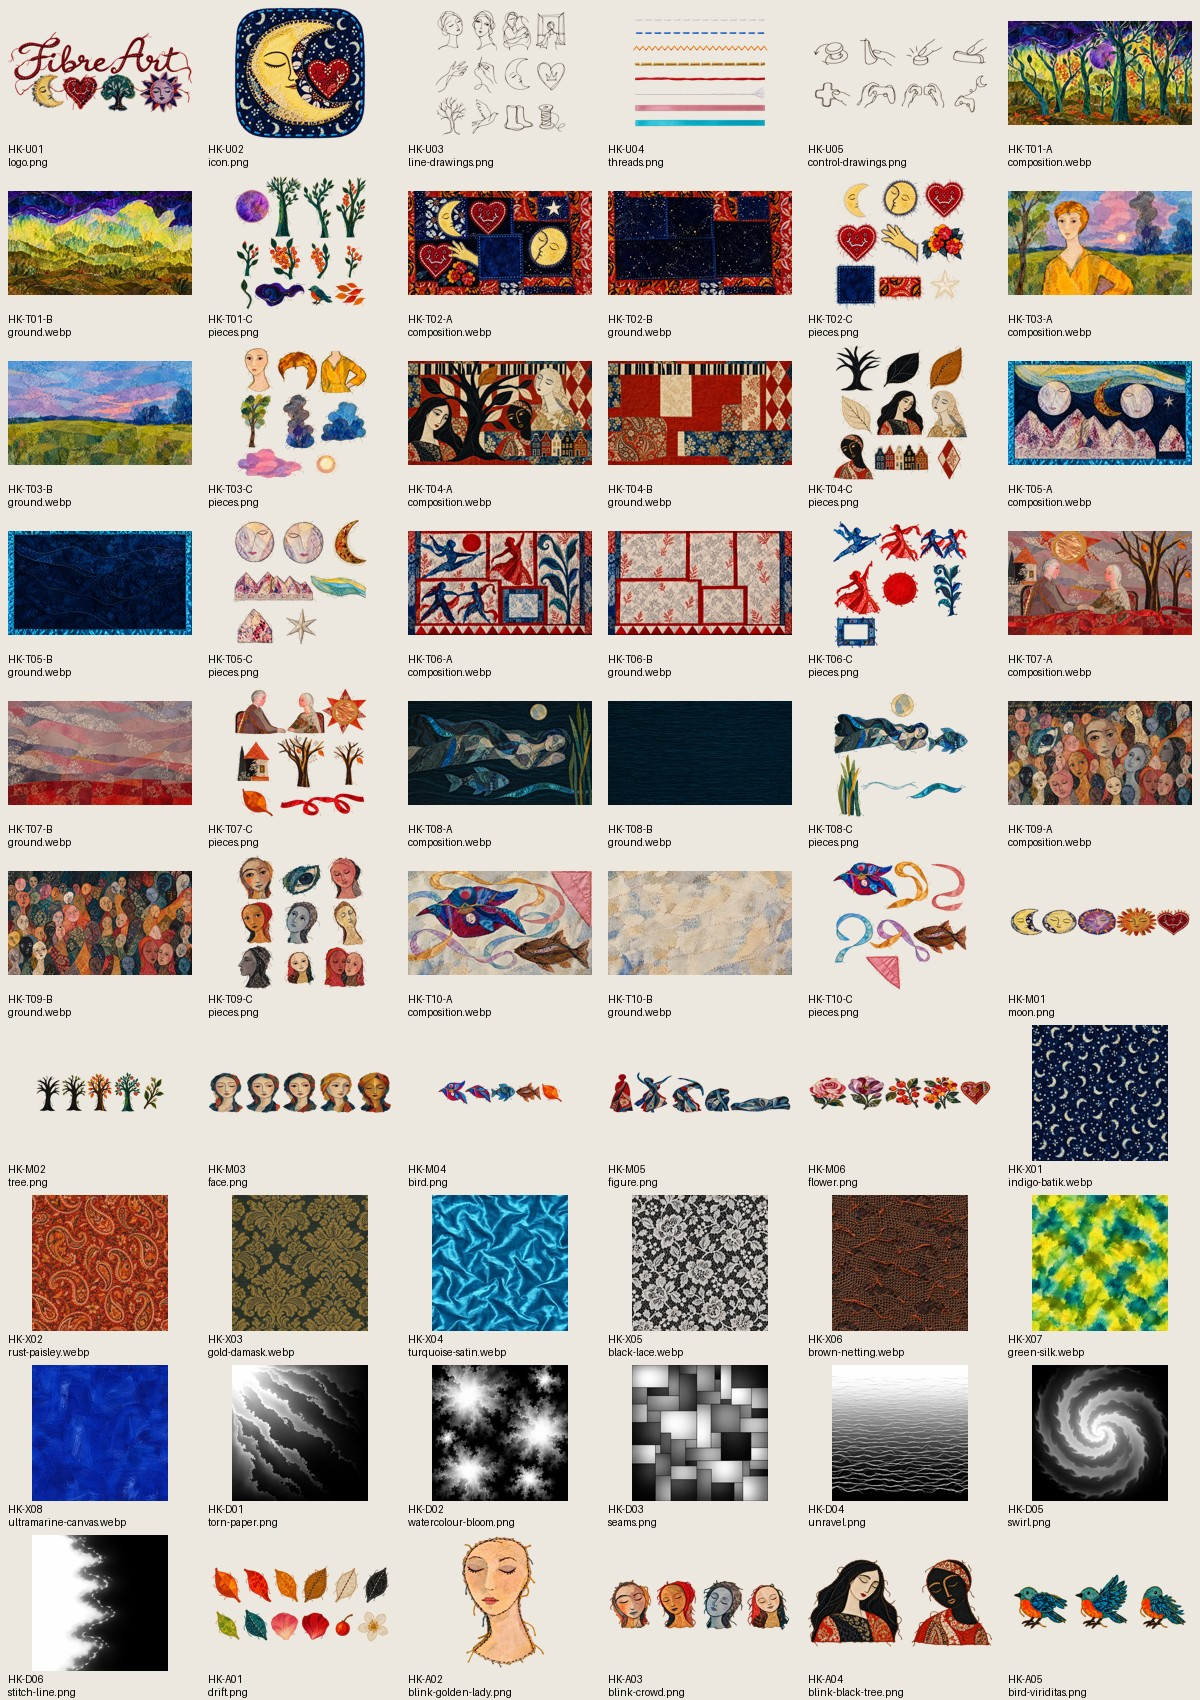
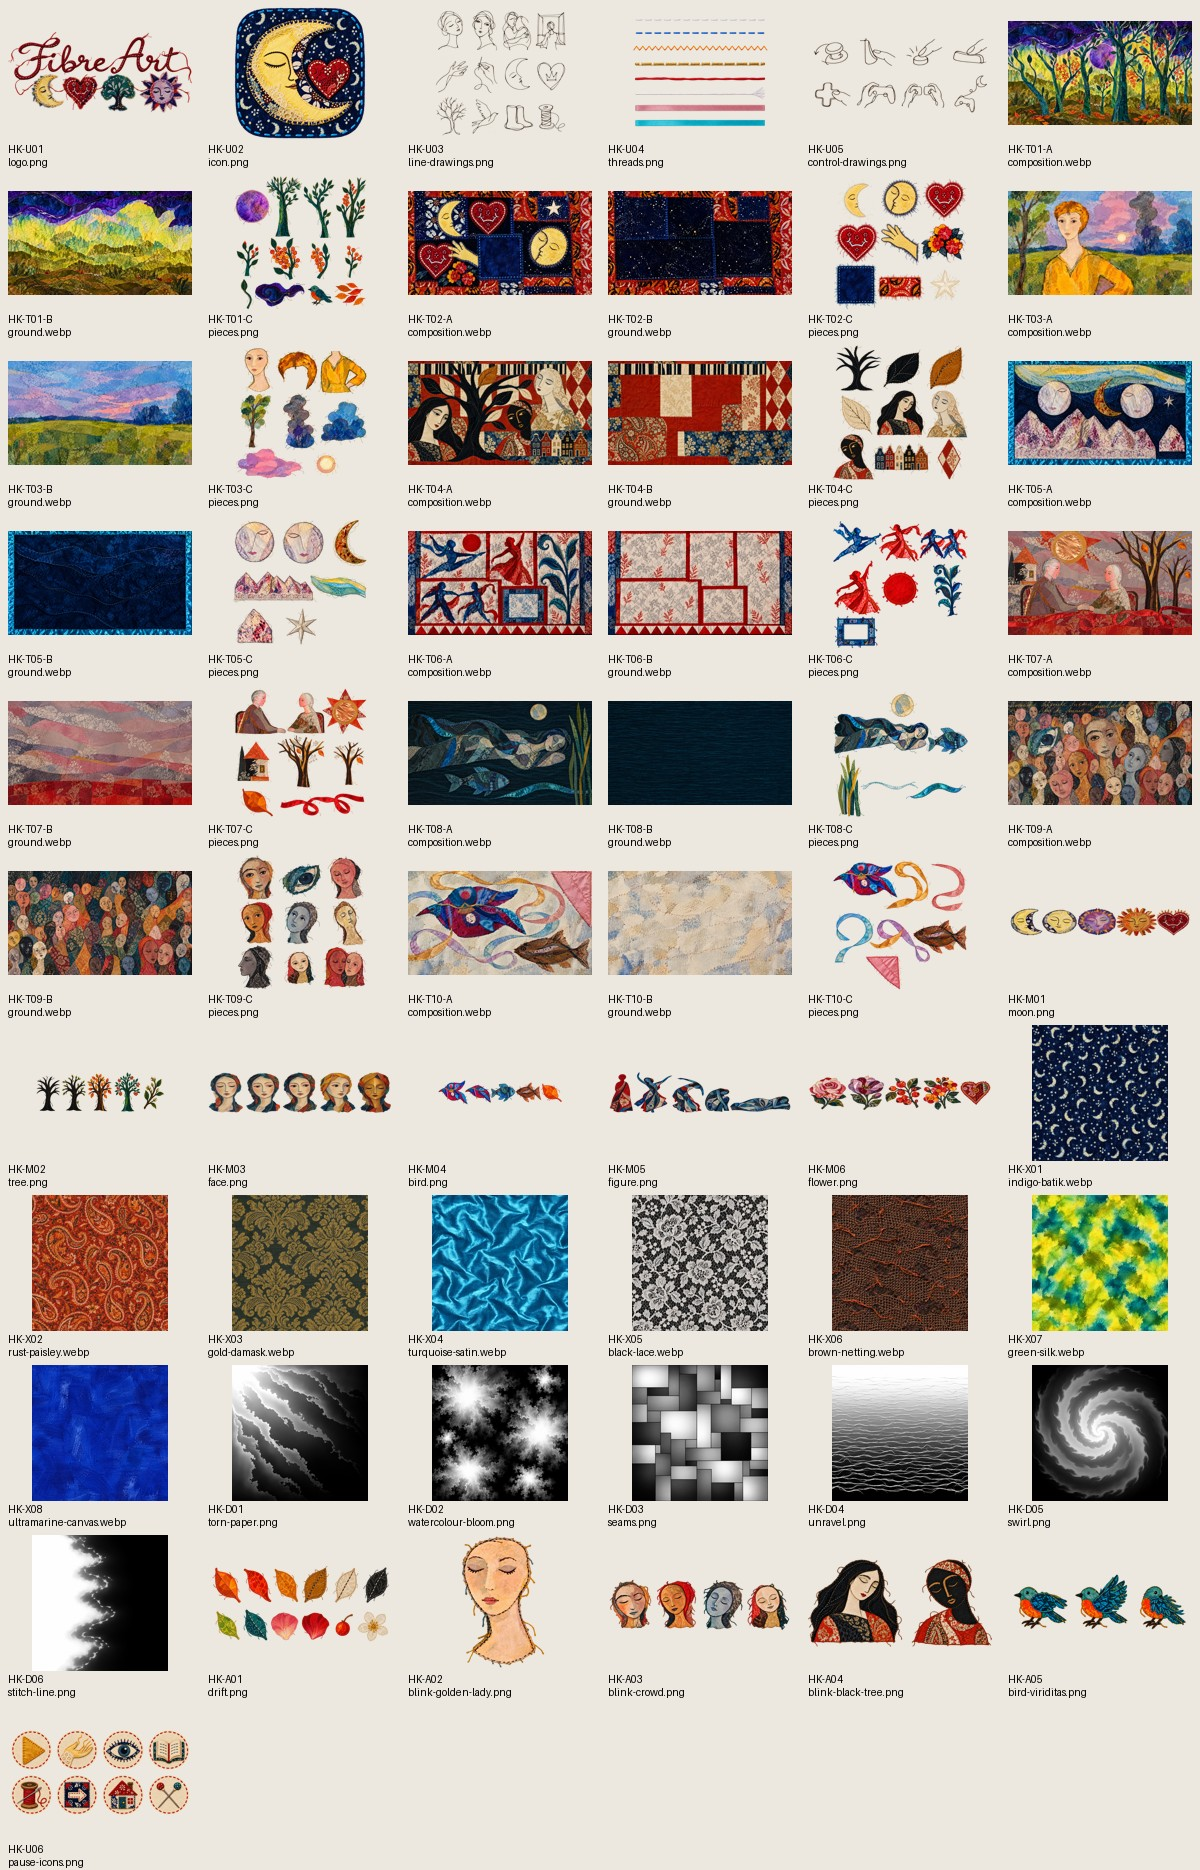
Add Fibre Art pause-menu fabric badges

diff --git a/fibreart/design/source/build_requests.py b/fibreart/design/source/build_requests.py
@@ -770,6 +770,7 @@ for key, name, how in MASKS:
     })
 
 DELIVERED_IDS = {
+    "HK-U06",
     "HK-A01",
     "HK-A02",
     "HK-A03",

diff --git a/fibreart/design/image-requests.md b/fibreart/design/image-requests.md
@@ -15,7 +15,7 @@ Artwork for Fibre Art, the shifting collage in `fibreart/` (see [`design.md`](de
 
 ## Status
 
-1 requested, 60 delivered, 61 in total.
+0 requested, 61 delivered, 61 in total.
 
 ## Brand and interface
 
@@ -82,7 +82,7 @@ A sheet of real sewing thread and stitches photographed flat, for a game that cu
 - **Stand-in until delivered:** Simple line icons drawn in code.
 - **Reference:** [`fibercollage-moons-and-hearts.jpg`](../reference/fibre/fibercollage-moons-and-hearts.jpg), [`tapestry-man-and-woman.jpg`](../reference/fibre/tapestry-man-and-woman.jpg)
 - **Note:** Attach HK-U02 (assets/ui/icon.png) and HK-U03 (assets/ui/line-drawings.png) so the badges match the icon and the line.
-- **Status:** requested
+- **Status:** delivered
 
 ```text
 Original artwork in the style of Hanneke de Neve, a Dutch-born New Jersey artist who makes fibercollages, quilts, tapestries and paintings: figurative and dreamlike, built from cut and pieced fabric and loose paint. Flat shapes cut from cloth with slightly irregular, softly frayed edges; visible hand stitching (running stitch, couched thread, machine zigzag); batik, paisley, damask, satin, lace and netting side by side; figures and faces with oval heads, long necks and almond eyes, often closed, drawn in one fluid dark contour over washes of colour that spill past the line. Deep indigo, black and teal grounds with hot accents of red, orange, saffron and pale gold, and acid yellow-green light. Calm, warm, a little melancholy, full of love for people. Rich, saturated colour, as in a fresh photograph of the real cloth, not faded. No text, no lettering, no signature, no watermark, no picture frame, no UI. A sheet of eight round appliqué badges for a game's pause menu, each one a circle of cream linen with a dashed red running stitch round its edge, and on it one simple motif cut from cloth and sewn on, bold and readable at 80 px, centred, filling about two thirds of the badge. All eight the same size, the same cream linen and the same stitched border, so they read as one set. Lay them out in a grid of 4 columns and 2 rows, in the order listed, from left to right and top to bottom, one per cell and centred in it, with plenty of clear background around each one. Nothing touches anything else or the edge of its cell. No numbers, labels, guide lines, outlines around the cells or shadows. The motifs, in order: 1. A play triangle pointing right, cut from saffron silk (resume). 2. An open hand of pale yellow cloth, palm up, with short loose threads running from its fingertips (the controls you have found). 3. A single wide-open eye of cream and blue cloth, its lashes stitched in dark thread (a hint: look closely). 4. An open book whose pages are pieces of cloth, with lines of running stitch for writing (how to play). 5. A wooden spool wound with red thread, a needle stuck through it (settings). 6. A small square quilt block in indigo and red with a stitched arrow pointing right (the next picture). 7. A little peaked house of patchwork with a red roof (back to the title). 8. Two dressmaker's pins crossed in an X (close). No words or letters anywhere. For the style, materials and palette, look at her work in these reference photos: https://raw.githubusercontent.com/hoai2k/mini/main/fibreart/reference/fibre/fibercollage-moons-and-hearts.jpg , https://raw.githubusercontent.com/hoai2k/mini/main/fibreart/reference/fibre/tapestry-man-and-woman.jpg . Transparent background (PNG with alpha). If transparency is not possible, use a flat pure magenta #FF00FF background with nothing else on it and no cast shadow; it is keyed out on integration.

diff --git a/fibreart/design/checkpoint.md b/fibreart/design/checkpoint.md
@@ -65,3 +65,20 @@ were verified, and they were moved to /private/tmp/fibre-git-appledouble-backup.
 Git status and history then ran without these errors. No real pack/index files
 were removed. The asset checkpoint commit is 4b4ec9d; it reached origin/main
 through merge commit 1c11c09, preserving incoming Gliders and multiplayer work.
+
+
+## Follow-up: pause-menu badges — 2026-10-08
+
+Synced main to 7094130 and delivered the newly requested HK-U06 sheet:
+game/assets/ui/pause-icons.png (2048 × 1024, alpha transparency). Eight badges
+were generated with built-in image_gen using the existing icon, line drawings,
+and two local artwork photos as references. The exact generation prompt and
+image hash are stored in design/image-deliveries.json. All 61 requests are now
+delivered. tools/build_web.py already integrates these eight badges through
+ui.pause in game/web/scenes.json. Generated-data checks and badge alpha checks
+passed. The web rebuild reused the committed encoded music because ffmpeg is
+unavailable in this shell; existing animation encodings were preserved.
+
+The installed-Chrome browser check passed after integration, including the
+pause/resume flow, controller and keyboard input, music and all ten scenes,
+with no browser errors. The pause screenshot was visually reviewed.

diff --git a/fibreart/README.md b/fibreart/README.md
@@ -50,9 +50,9 @@ across the picture when it is larger than the screen.
   `build_web.py` makes `game/web/` (Pillow, NumPy, SciPy).
 - [`intake/`](intake/README.md): the drop box for new images and photos.
 
-All 60 image requests are delivered. The generated icon, Viriditas ground,
+All 61 image requests are delivered. The generated icon, Viriditas ground,
 Moons and hearts and Dancers pieces, and tree and bird morph chains now replace
-the earlier stand-ins. Animation assets and control drawings are included.
+the earlier stand-ins. Animation assets, control drawings and eight pause-menu badges are included.
 All of it was checked in play; see "What playing it with the art showed" in
 [`design/design.md`](design/design.md). [`design/checkpoint.md`](design/checkpoint.md)
 records how the deliveries were saved.

diff --git a/fibreart/game/assets/README.md b/fibreart/game/assets/README.md
@@ -1,8 +1,8 @@
 # Fibre Art assets
 
-60 generated images from the requests in `../../design/image-requests.md`:
+61 generated images from the requests in `../../design/image-requests.md`:
 ten compositions, ten grounds, ten transparent piece sheets, the title and icon,
-interface and control drawings and threads, six morph chains, eight fabric
+interface and control drawings, pause badges and threads, six morph chains, eight fabric
 swatches, six greyscale dissolve maps and five animation requests. The game loads
 optimised copies made from these by `../../tools/build_web.py` into `../web/`;
 these full-size files are not published.
